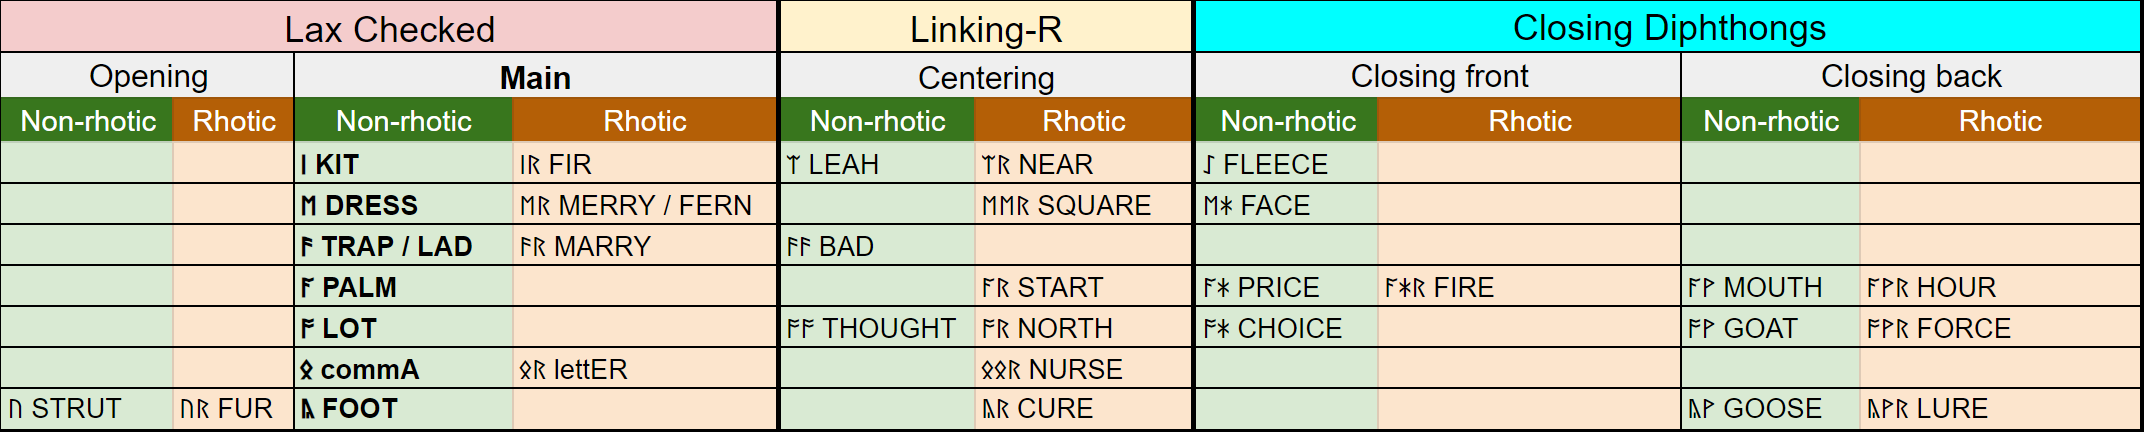
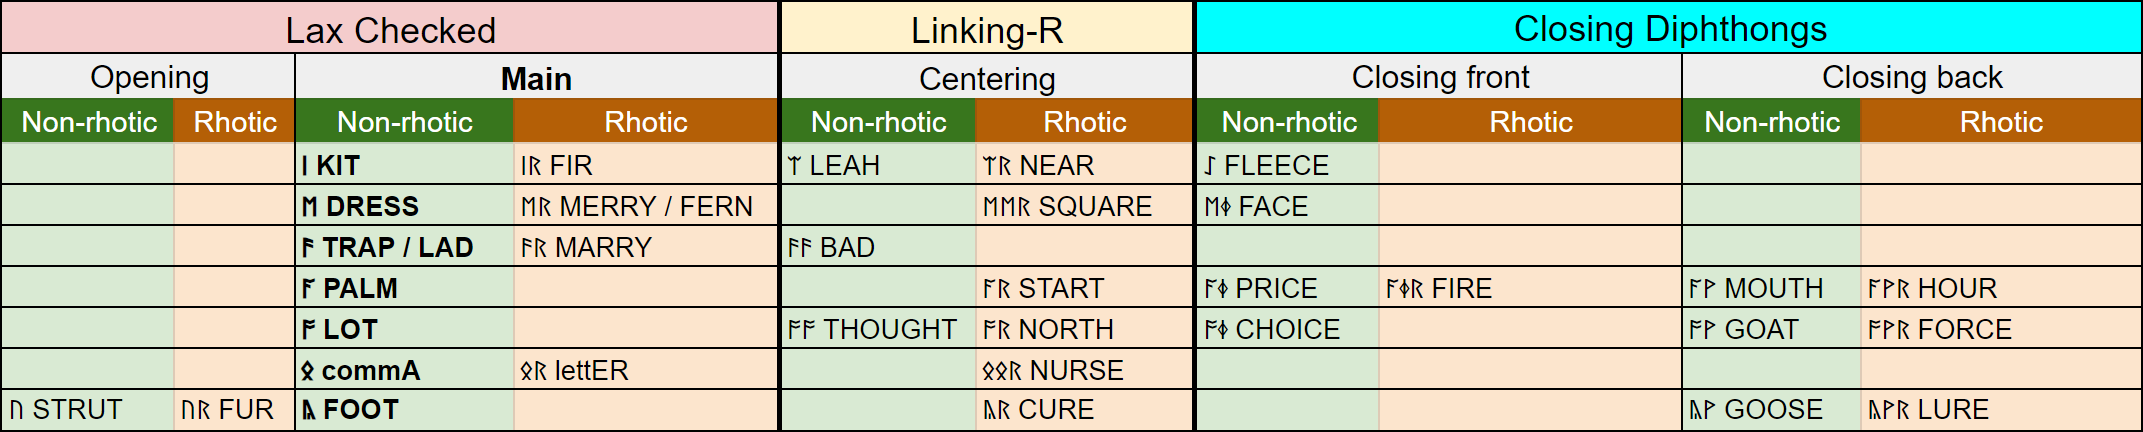
lantern rune

diff --git a/_posts/2024-4-6-version-2.md b/_posts/2024-4-6-version-2.md
@@ -74,7 +74,7 @@ These runes are not just for fun. They can help us bind together English accents
 
 Here is a much simpler list with only the most popular lexical sets:
 
-![](/assets/images/RuneSchoolSimplified.png)
+![](/assets/images/RuneSchoolLexicalSets-Simplified.png)
 
 ## Remove consonant doubling
 
@@ -120,7 +120,7 @@ Previously, ᛇ was used for "rad*io*" and "g*eo*graphy" as well as the consonan
 
 | Latin | Runes BEFORE | Runes NOW |
 | --- | --- | --- |
-| radio | ᚱᛖᛡᛞᛇ | ᚱᛖᛡᛞᛡᚩᚹ |
+| radio | ᚱᛖᛡᛞᛇ | ᚱᛖᛄᛞᛡᚩᚹ |
 | geography | ᚷᛇᚸᚱᛟᚠᛁ | ᚷᛡᚩᚸᚱᛟᚠᛡ |
 | fleece | ᚠᛚᛁᛋ | ᚠᛚᛇᛋ |
 
@@ -150,19 +150,36 @@ Another option entirely would be to use ᚣ as a rune that represents /ju:/ like
 
 Option 4 is good because of the STRUT-FOOT (hull-pull) merger and the FOOT-GOOSE merger. *Visually* STRUT and FOOT look similar and *also* FOOT and GOOSE look similar. So FOOT is the meeting point of the two. Also, STRUT is a more open sound than FOOT on the IPA vowel chart and ᚢ looks more visually open than ᚣ.
 
-## happY vowel
+## ᛡ for happY vowel
 
-The happY vowel is represented with a plain ᛡ now. This is because "[happy can be associated with either fleece, kit, or face, with vowel qualities in the range of /i ~ ɪ ~ e ~ ɛ/](https://ecampusontario.pressbooks.pub/lexicalsets/chapter/25-happy-lexical-set/)" and the ᛡ rune perfectly sits in that mysterious place.
+"[happY can be associated with either fleece, kit, or face, with vowel qualities in the range of /i ~ ɪ ~ e ~ ɛ/](https://ecampusontario.pressbooks.pub/lexicalsets/chapter/25-happy-lexical-set/)". KIT, FLEECE, and happY are not three distinct sounds. Rather, happY could be either KIT or FLEECE. If anyone has used Shavian before, you know the pain of not having a letter just for this happY phoneme.
 
-# TODO
+Previously, the ᛁ rune represented both KIT and FLEECE and therefore if it was on the end of a word, it could be whatever you wanted it to be. The one issue that would occur from this is the famous confusion of "candied" and "candide".
 
-Figure out happY rune. This third i sound is used 
+Now, we have different runes for both KIT and FLEECE. So the happY vowel is now represented with ᛡ. 
 
-* Before vowels: crEate /kriˈeɪt/, and radIo /ˈɹeɪdiˌoʊ/
+ᛄ and ᛡ are famously controversial. Many believe that they are two different styles for the same rune. But the fact is that multiple manuscripts contain both of these runes and they even have different names. That would not be the case if they were just stylistic variants of the same rune.
 
-* End of words: kItty /ˈkɪti/
+ᛡ was called "Īor", meaning "eel". ᛄ was called "Gēr", meaning "year". 
 
-This means that the happY vowel isn't really a pure /j/ glide, but it really is a full vowel in its own right. In between KIT and FLEECE. If we can make a case that /j/ *is* the happY vowel, then we can use one rune for everything.
+If we take each of these runes sounds as being the first phoneme of their names, then ᛡ has an /i/-ish sound and ᛄ has a /j/-ish sound.
 
-We also have ᛄ at our disposal if we want to somehow split the workload up.
+The /i/-ish sound is perfect for the happY vowel. And moving ᛄ to the FACE, PRICE, and CHOICE phonemes will make it consistent with the usage of ᚹ in this same regard.
 
+| Latin       | Runes BEFORE | Runes NOW |
+| ----------- | ------------ | --------- |
+| Kale        | ᛣᛖᛡᛚ         | ᛣᛖᛄᛚ      |
+| Kyle        | ᛣᚪᛡᛚ         | ᛣᚪᛄᛚ      |
+| Coil        | ᛣᚩᛡᛚ         | ᛣᚩᛄᛚ      |
+| Geography   | ᚷᛇᚸᚱᛟᚠᛁ     | ᚷᛡᚩᚸᚱᛟᚠᛡ  |
+| Radio       | ᚱᛖᛡᛞᛇ      | ᚱᛖᛄᛞᛡᚩᚹ   |
+| Kitty       | ᛣᛁᛏᛁ         | ᛣᛁᛏᛡ      |
+| Create      | ᚳᚱᛁᛖᛡᛏ       | ᚳᚱᛡᛖᛄᛏ    |
+| Easily (1)  | ᛁᛉᛁᛚᛚᛁ        | ᛁᛄᛉᛁᛚᛡ     |
+| Easily (2)  | ᛁᛉᛁᛚᛚᛁ       | ᛇᛉᛁᛚᛡ    |
+| Yield (1)   | ᛄᛁᛚᛞ        | ᛄᛁᛄᛚᛞ     |
+| Yield (2)   | ᛄᛁᛚᛞ         | ᛄᛇᛚᛞ      |
+| Candied     | ᛣᚫᚾᛞᛁᛞ       | ᛣᚫᚾᛞᛡᛞ    |
+| Candidly    | ᛣᚫᚾᛞᛁᛞᛞᛚᛁ     | ᛣᚫᚾᛞᛁᛞᛚᛡ  |
+| Candide (1) | ᛣᚫᚾᛞᛁᛞ       | ᛣᚫᚾᛞᛁᛄᛞ    |
+| Candide (2) | ᛣᚫᚾᛞᛁᛞ      | ᛣᚫᚾᛞᛇᛞ   |
